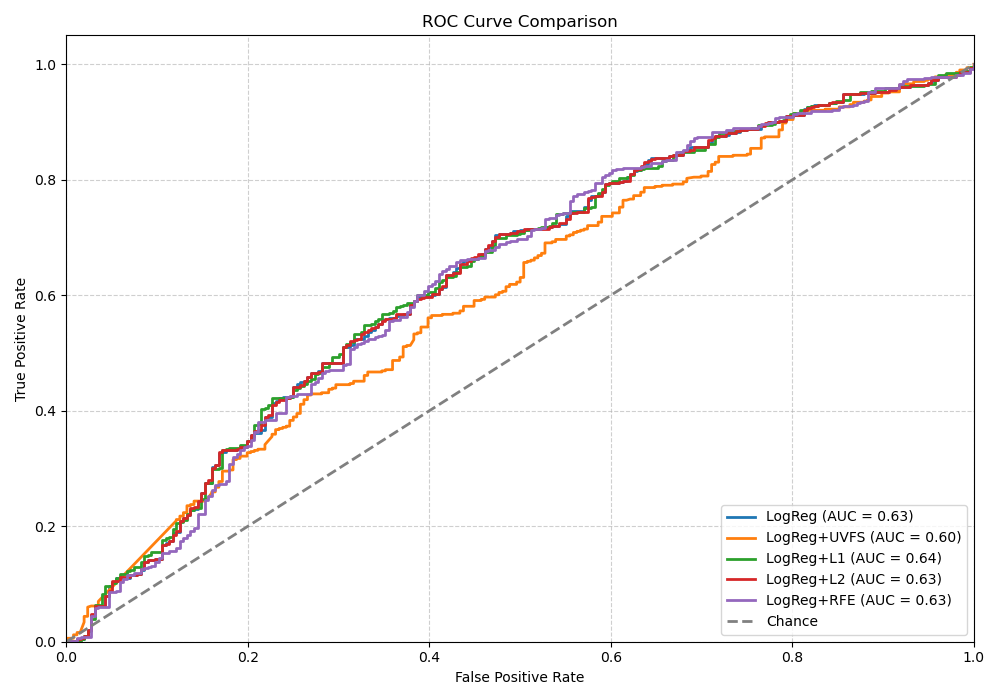
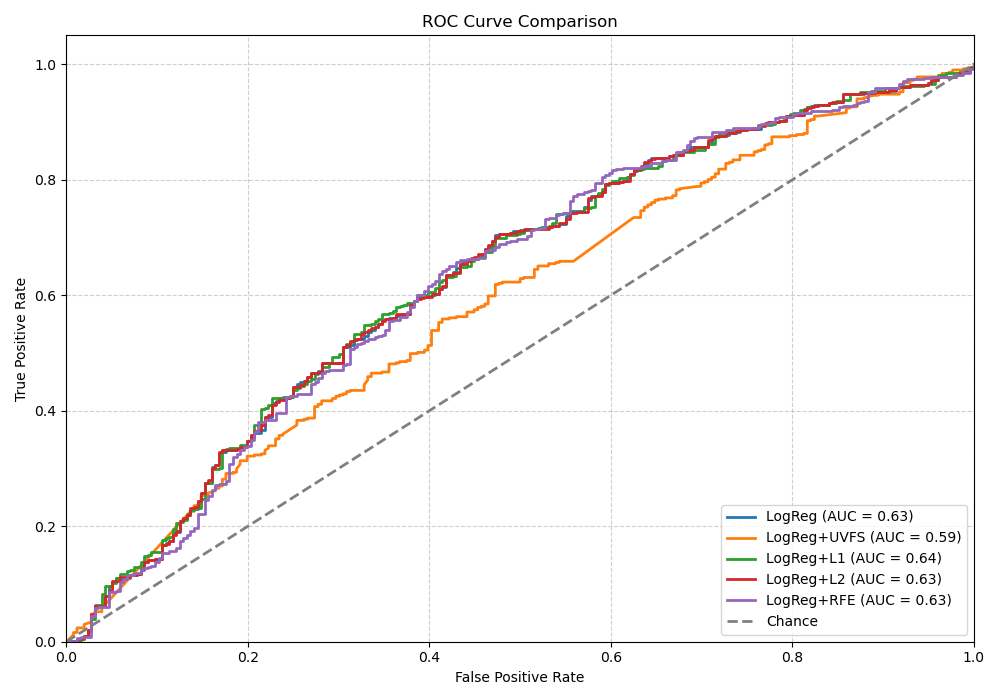
-

diff --git a/Logistic_Regression.py b/Logistic_Regression.py
@@ -34,7 +34,7 @@ else:
     stratify_col = y
 
 X_train, X_test, y_train, y_test = train_test_split(
-    X, y, test_size=0.2, random_state=10, stratify= stratify_col)  #straticatio over years and label
+    X, y, test_size=0.2, random_state=10, stratify= stratify_col)  #stratication over years and label
 
 
 ############################  MISSING DATA HANDLING ###########################################
@@ -169,7 +169,7 @@ print("Total number of features (LR):", X_train.shape[1])
 ##################### FEATURE SELECTION ###############################################################################
 
 #Univariate FS
-UVFS_Selector = SelectKBest(score_func=f_classif, k=15)
+UVFS_Selector = SelectKBest(score_func=f_classif, k=9)
 X_UVFS = UVFS_Selector.fit_transform(X_train, y_train)
 X_UVFS_test = UVFS_Selector.transform(X_test)
 

diff --git a/Data_Preparation.py b/Data_Preparation.py
@@ -26,8 +26,7 @@ label = "FiErg"
 features = ["KT","Inst", "Adr",  "Ort", "Typ", "RWStatus", "Akt", "SL", "WB", "AnzStand","SA","PtageStatT","AustStatT","NeugStatT","Ops","Gebs","CMIb","CMIn",
             "pPatWAU","pPatWAK", "pPatLKP","pPatHOK","PersA","PersP","PersMT","PersT","PersAFall","PersPFall","PersMTFall","PersTFall","AnzBelA","AnzBelP (nur ab KZP2010)"]
 
-#for all years
-#features.append("JAHR")
+
 data["JAHR"] = data["JAHR"].astype("object")
 
 
@@ -57,7 +56,7 @@ data = data.drop(columns=["SA"])
 features.remove("SA")
 
 
-#Dropping Columns with 100% Missing Data
+#Dropping Columns with 100% Missing Data (none in all years)
 #columns to drop
 columns_to_drop = [i for i in features if data[i].isna().sum() == len(data[i])]
 
